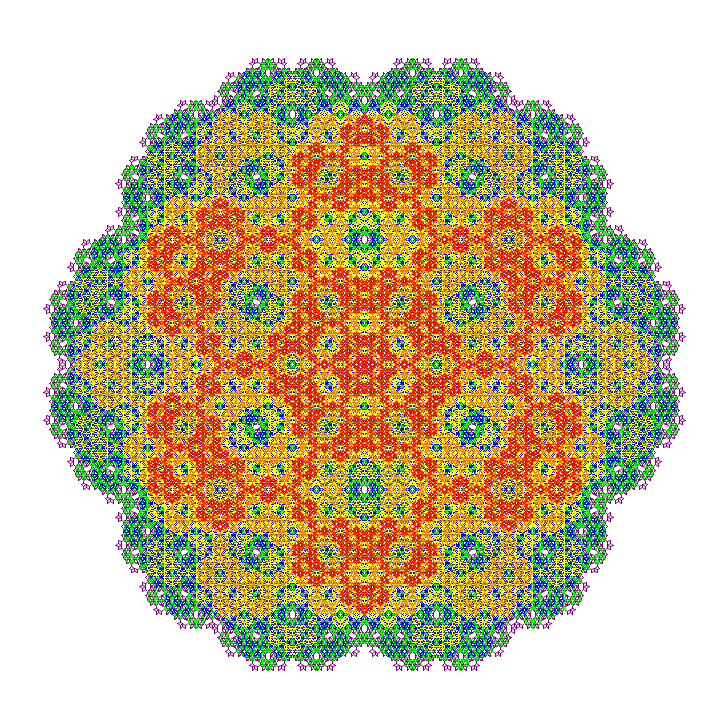
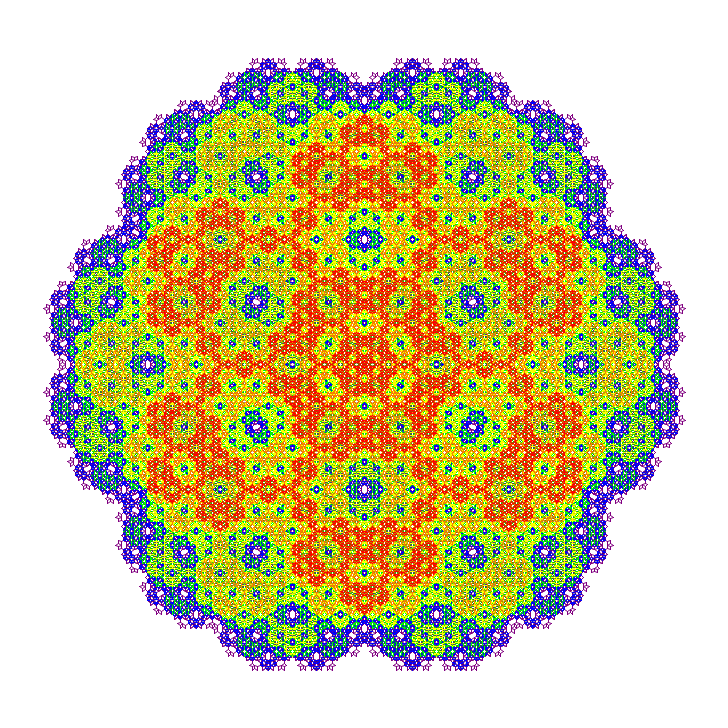
layer 5 odd

Changed region(s): [[0.0604, 0.0604, 0.9368, 0.9368]]

diff --git a/rust/koch-snowflake/src/main.rs b/rust/koch-snowflake/src/main.rs
@@ -51,8 +51,11 @@ fn main() {
     koch_snowflake_reflections_layered(&mut img_reflected_layered3, (364f32, 364f32), 300f32, vec![RED, BLUE, GREEN]);
     img_reflected_layered3.save("koch_snowflake_reflected_layered3.png").unwrap();
     let mut img_reflected_layered6 = LayeredImage::from_pixels(728, 728, vec![TRANSPARENT, TRANSPARENT, TRANSPARENT, TRANSPARENT, TRANSPARENT, WHITE]);
-    koch_snowflake_reflections_layered(&mut img_reflected_layered6, (364f32, 364f32), 250f32, vec![RED, ORANGE, YELLOW, BLUE, GREEN, PURPLE]);
+    koch_snowflake_reflections_layered(&mut img_reflected_layered6, (364f32, 364f32), 250f32, vec![RED, ORANGE, YELLOW, GREEN, BLUE, PURPLE]);
     img_reflected_layered6.save("koch_snowflake_reflected_layered6.png").unwrap();
+    let mut img_reflected_layered_odd5 = LayeredImage::from_pixels(728, 728, vec![TRANSPARENT, TRANSPARENT, TRANSPARENT, TRANSPARENT, TRANSPARENT, TRANSPARENT, TRANSPARENT, TRANSPARENT, WHITE]);
+    koch_snowflake_reflections_layered(&mut img_reflected_layered_odd5, (364f32, 364f32), 250f32, vec![RED, TRANSPARENT, YELLOW, TRANSPARENT, GREEN, TRANSPARENT, BLUE, TRANSPARENT, PURPLE]);
+    img_reflected_layered_odd5.save("koch_snowflake_reflected_layered_odd5.png").unwrap();
 }
 
 fn koch_snowflake(img: &mut RgbaImage, center: Pos, radius: f32, color: Color) {
